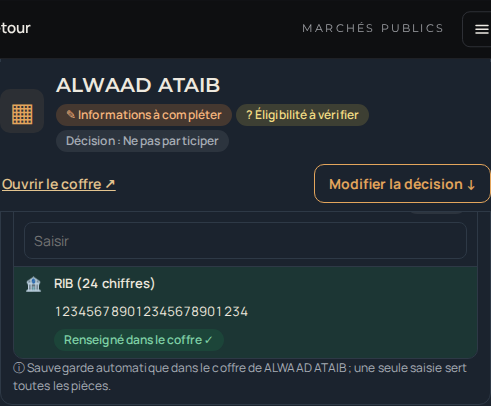
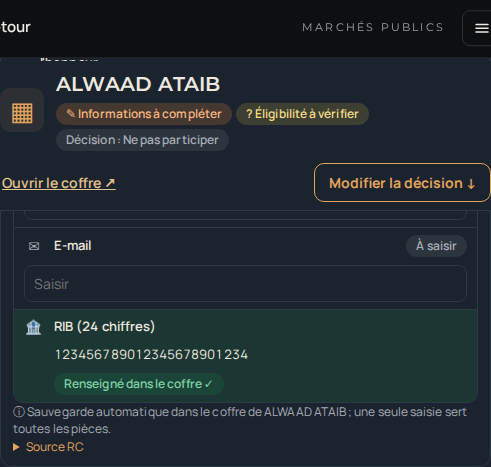
B2.1 b21d-11 : « À compléter / vérifier » par enveloppe RC réelle, seulement les manques
Claude-Session: https://claude.ai/code/session_01Fz3SDj4h719T8LXxdPwfkD

diff --git a/preuves_b31/part_b21dec.js b/preuves_b31/part_b21dec.js
@@ -5,7 +5,7 @@
    a.decision {verdict, le, qui, motif} ; jamais de Go automatique ni de présélection ; une décision remplacée est conservée
    (a.decisionHist) et tracée au journal ; la société d'un dossier n'est jamais changée ici. L'avis et la recommandation de
    l'Analyste restent dans la note d'analyse. Consultation clôturée : décision affichée en lecture, aucune nouvelle soumission. */
-const B21D={v:"b21d-10",motif:{},conf:null,ajout:null,ui:{id:null,open:null,f:"tout"},cat:{}};
+const B21D={v:"b21d-11",motif:{},conf:null,ajout:null,ui:{id:null,open:null,f:"tout"},cat:{}};
 const B21D_ST={prep:["b21d-neu","À préparer"],prep2:["b21d-neu","À préparer après Go · requis avant dépôt"],aprod:["b21d-amb","À produire si attribué"],pret:["b21d-ok","Prêt"],verif:["b21d-amb","À vérifier"],joindre:["b21d-ko","À joindre"],compl:["b21d-amb","À compléter"],nonexige:["b21d-neu","Non exigé"],attrib:["b21d-neu","Si attribué"]};
 const B21D_COFFRE=["qc","refs","fis","cnss","rc","pouvoirs"],B21D_FIN=["bpu","sdp"];   /* l'acte d'engagement se prépare dans les pièces (B3.2) */
 function b21dSibs(id,a){let L=[];try{L=b31Sibs(id,a);}catch(e){L=[{id,soc:a.soc,statut:a.statut}];}return L.map(s=>({oid:s.id,sid:s.soc,a:S.ao[s.id]})).filter(x=>x.a&&x.sid);}
@@ -101,7 +101,9 @@ function b21dPfSave(sid,k,force){const key=sid+"|"+k,F=B21D.pf[key];if(!F)return
       const maj=new Date().toISOString(),patch={profil:{[k]:val,maj}};if(g&&g.exists)await ref.update(patch);else await ref.set(patch);
       const d=D0(sid);d.profil={...(d.profil||{}),[k]:val,maj};try{socApply(sid);}catch(e){}
       if(k!=="gerants"){F.base=val;F.saved=val;}F.dirty=false;F.st="ok";F.cur=null;logJ((socCourt(sid)||sid)+" : profil mis à jour depuis la décision B2.1 ("+(k==="gerants"?"signataire":(B21D_PF.F[k]||{}).lab||k)+")");})
-    .catch(e=>{F.st="err";F.msg=(e&&e.code)||"erreur";}).finally(()=>b21dRenderSafe());}
+    .catch(e=>{F.st="err";F.msg=(e&&e.code)||"erreur";}).finally(()=>{const ae0=document.activeElement;b21dRenderSafe();
+      /* b21d-11 : si le rendu a retiré l'élément qui avait le focus (carte résolue), le focus revient au titre « À compléter / vérifier » */
+      if(ae0&&ae0!==document.body&&!document.contains(ae0)&&(!document.activeElement||document.activeElement===document.body)){const hh=document.getElementById("b21d-ah");if(hh)hh.focus({preventScroll:true});}});}
 /* aller à la pièce précise du coffre de la société (rubrique dépliée, pièce mise en vue) */
 function b21dCoffrePiece(sid,k){const i=SOC.findIndex(z=>z.sid===sid);let ci=-1;try{ci=VAULT.findIndex(([c,ps])=>ps.some(p=>p.k===k));}catch(e){}
   go(()=>{S.cur=i<0?0:i;S.soc=null;S.dept="coffre";S.cview="soc";S.filter="all";S.aoId=null;if(ci>=0)S.open["c"+ci]=true;});
@@ -147,9 +149,16 @@ function b21dElig(id,a,sid,X){const oid=X?X.oid:id,ac=X?X.a:a,non=[],ver=[],ok=[
   try{if(X){b21dGoBloc(X.oid).bloc.filter(z=>/décret|article/i.test(z.src||"")).forEach(z=>non.push({t:z.t,src:z.src}));}
     else{const pc=parCompat(id,a,sid);if((pc.st==="non"||pc.st==="deja")&&/article|décret/i.test(pc.why||""))non.push({t:pc.why,src:"décret 2-22-431"});}}catch(e){}
   return{k:non.length?"non":ver.length?"averif":"ok",non,ver,ok,E};}
+/* b21d-11 : emplacement réel d'une pièce dans le pli, uniquement d'après le RC lu (S.rc[..].plis et env de la pièce) ; sans plis lus
+   ou pièce non classée : « Emplacement dans le pli à confirmer » (le repli générique plisOf n'est pas utilisé ici) */
+const B21D_DOS={adm:"Dossier administratif",tec:"Dossier technique",fin:"Offre financière",ot:"Offre technique"};
+function b21dLoc(rcId,std,piece){const r=S.rc[rcId]||{},P=Array.isArray(r.pieces)?r.pieces:[],pl=Array.isArray(r.plis)&&r.plis.length?r.plis:null,inc={k:"?",lab:"Emplacement dans le pli à confirmer",ord:9999};
+  const p=P.find(x=>std&&x.std===std)||P.find(x=>x.t===piece);if(!p||!pl||!B21D_DOS[p.env])return inc;
+  const i=pl.findIndex(x=>Array.isArray(x.env)&&x.env.includes(p.env));if(i<0)return inc;const n=pl[i].n||i+1;
+  return{k:n+"|"+p.env,env:"Enveloppe "+n,dos:B21D_DOS[p.env],lab:"Enveloppe "+n+" · "+B21D_DOS[p.env],ord:i*10+pl[i].env.indexOf(p.env),d:p.d||""};}
 /* documents à produire (RC) et informations nécessaires, par document ; proofs = preuves du coffre exigées par le RC */
 function b21dDocs(id,a,sid,X){const oid=X?X.oid:id,ac=X?X.a:a,D=b21dCarteData(oid,ac,sid);let f0={};try{f0={...pfDefaults(ac,sid),...((ac.pieces||{})[sid]||{})};}catch(e){}
-  const docs=(D.prep||[]).map((z,i)=>{const gen=B21D_GEN[z.std],o={i,piece:z.piece,std:z.std,src:z.src,fields:[],autres:[],infos:[],fin:false,kind:"ready",note:"",etat:""};
+  const docs=(D.prep||[]).map((z,i)=>{const gen=B21D_GEN[z.std],o={i,piece:z.piece,std:z.std,src:z.src,fields:[],autres:[],infos:[],fin:false,kind:"ready",note:"",etat:"",loc:b21dLoc(D.rcId,z.std,z.piece)};
     if(z.k==="nonexige"){o.kind="nonexige";return o;}
     if(gen){let m=[];try{m=pfMissing(gen,ac,sid,f0).filter(x=>x!=="date");}catch(e){o.kind="verif";o.note="Contrôle des informations indisponible : vérification requise";return o;}
       m.forEach(l=>{if(b21dFin(l)){o.fin=true;return;}const k=B21D_FLD[l];if(k){if(!o.fields.some(f=>f.k===k))o.fields.push({k,lab:B21D_FLAB[k]||l,inv:/24 chiffres/.test(l)});}else o.autres.push({t:l,txt:"À compléter dans les chantiers de la société (pas de saisie ici)"});});
@@ -164,14 +173,14 @@ function b21dDocs(id,a,sid,X){const oid=X?X.oid:id,ac=X?X.a:a,D=b21dCarteData(oi
       if(!f0.sig)o.fields.push({k:"gerants",lab:B21D_FLAB.gerants});
       const RF=(D0(sid).references||[]);if(!RF.length)o.autres.push({t:"Références de la société (prestations déjà exécutées)",txt:"Aucune référence saisie au coffre",lab:"Renseigner dans le coffre",vk:"Attestations de bonne exécution"});
       else o.infos.push(RF.length+" référence"+(RF.length>1?"s":"")+" saisie"+(RF.length>1?"s":"")+" au coffre ✓");
-      o.infos.push("Équipe et moyens matériels : besoins à préciser par l'employé Préparation après lecture du CPS");o.prep=!!X;}
-    else if(z.std==="memoire"||z.std==="planning"){o.kind="redac";o.etat="Rédaction en préparation";o.infos.push("Rédigé par l'employé Préparation à partir du DCE ; besoins de la société à préciser après lecture du CPS");o.prep=!!X;}
+      o.infos.push("Équipe et moyens matériels : besoins à préciser par l'employé Préparation après lecture du CPS");o.prep=!!X;if(!NM)o.cps=true;}
+    else if(z.std==="memoire"||z.std==="planning"){o.kind="redac";o.etat="Rédaction en préparation";o.infos.push("Rédigé par l'employé Préparation à partir du DCE ; besoins de la société à préciser après lecture du CPS");o.prep=!!X;o.cps=true;}
     else{o.kind="verif";o.note="Informations nécessaires non déterminées automatiquement pour cette pièce : vérification requise";}
     const kd=sid+"|"+z.std;B21D.docF[kd]=Array.from(new Set([...(B21D.docF[kd]||[]),...o.fields.map(f=>f.k)]));
     (B21D.docF[kd]||[]).forEach(k=>{if(!o.fields.some(f=>f.k===k)&&B21D.pf[sid+"|"+k])o.fields.push({k,lab:B21D_FLAB[k]||k,fait:true});});
     if(o.kind==="redac"&&(o.fields.some(f=>!f.fait)||o.autres.length))o.todo=true;
     return o;});
-  const proofs=(D.pre||[]);return{D,docs,proofs,rcOk:D.rcOk,rcId:D.rcId};}
+  const proofs=(D.pre||[]).map(z=>Object.assign({},z,{loc:b21dLoc(D.rcId,z.std,z.piece)}));return{D,docs,proofs,rcOk:D.rcOk,rcId:D.rcId};}
 function b21dEval(id,a,sid,X){const el=b21dElig(id,a,sid,X),dc=b21dDocs(id,a,sid,X),miss=new Set();dc.docs.forEach(d=>d.fields.filter(f=>!f.fait).forEach(f=>miss.add(f.k)));
   const nAutres=dc.docs.reduce((n,d)=>n+d.autres.length,0),nVer=dc.docs.filter(d=>d.kind==="verif").length,info=miss.size+nAutres;
   const B=[];if(el.k==="non")B.push(["non","Non éligible","b21d-ko","✕"]);if(info)B.push(["comp","Informations à compléter","b21d-or","✎"]);if(el.k==="averif")B.push(["verif","Éligibilité à vérifier","b21d-ye","?"]);if(nVer)B.push(["verif","Documents à vérifier","b21d-ye","?"]);
@@ -254,7 +263,7 @@ function b21dDecSec(id,a,e){const sid=e.sid,X=e.X,d=X&&X.a.decision,ed=editable(
   if(H.length)h+=`<details class="b21d-hist"><summary>Historique des décisions (${H.length})</summary><ul>${H.map(z=>`<li>${esc(B21D_DV[z.verdict]||z.verdict||"?")} · ${esc(z.le?fmtIso(z.le):"?")} · ${esc(b21dQui(z.qui))}${z.motif?" · "+esc(z.motif):""}<small>remplacée le ${esc(fmtDT(z.remplaceLe))} par ${esc(b21dQui(z.remplacePar))}</small></li>`).join("")}</ul></details>`;
   return h+`</section>`;}
 /* ---- panneau d'une société ---- */
-function b21dPanel(id,a,e){const sid=e.sid,X=e.X,nm=socCourt(sid),el=e.el,ELP={ok:["b21d-ok","✓ Prouvée"],averif:["b21d-ye","? À vérifier"],non:["b21d-ko","✕ Non éligible"]}[el.k],OCC={premier:b21dOccPremier(e.sid,e.dc.docs)};
+function b21dPanel(id,a,e){const sid=e.sid,X=e.X,nm=socCourt(sid),el=e.el,ELP={ok:["b21d-ok","✓ Prouvée"],averif:["b21d-ye","? À vérifier"],non:["b21d-ko","✕ Non éligible"]}[el.k];
   const passe=b21dPasse(a),fig=X&&["Déposé","Attribué","Non retenu"].includes(X.a.statut),peut=editable()&&!passe&&!fig,dx=X&&X.a.decision;
   let h=`<section class="b21d-p" aria-labelledby="b21d-ph" data-b21d-panel="${esc(sid)}"><button type="button" class="b21d-back" data-b21d-back="1" data-act="${act(()=>{B21D.ui.mob="list";render();b21dFocus('[data-b21d-item="'+sid+'"]');})}">← Sociétés</button>
     <header class="b21d-pt" data-b21d-sticky="1"><span class="b21d-pic" aria-hidden="true">▦</span><div><h3 id="b21d-ph" tabindex="-1">${esc(nm)}</h3><p class="b21d-psb" data-b21d-psub="1">${e.B.length?e.B.map(b=>`<span class="b21d-pill ${b[2]}">${b[3]} ${esc(b[1])}</span>`).join(""):`<span class="b21d-pill b21d-neu">Aucun point relevé</span>`}${dx?`<span class="b21d-pill b21d-neu">Décision : ${esc(B21D_DV[dx.verdict]||dx.verdict)}</span>`:""}</p></div>
@@ -263,23 +272,37 @@ function b21dPanel(id,a,e){const sid=e.sid,X=e.X,nm=socCourt(sid),el=e.el,ELP={o
   h+=`<div class="b21d-eb b21d-eb-${el.k}" data-b21d-elig="${el.k}"><span class="b21d-ei" aria-hidden="true">⛨</span><div><p class="b21d-et"><b>Éligibilité pour cet AO</b> · <span class="b21d-pill ${ELP[0]}">${ELP[1]}</span></p><p class="b21d-src">${el.k==="ok"?"Preuves d'éligibilité exigées présentes et en validité (contenu non vérifié automatiquement).":esc(R[0]?R[0].t:"")+(R.length>1?" · + "+(R.length-1)+" autre"+(R.length>2?"s":"")+" point"+(R.length>2?"s":""):"")}${r0&&r0.src?" · Source : "+esc(r0.src):""}</p></div>`;
   if(r0)h+=`<button type="button" class="b21d-lnk" data-b21d-everif="1" data-act="${act(()=>vk&&VAULT.some(([c,ps])=>ps.some(p=>p.k===vk))?b21dCoffrePiece(sid,vk):b21dAller(X?X.oid:id,"MP-B2.3","note"))}">${vk?"Vérifier : "+esc(r0.lab||vk):"Voir les exigences (B2.3)"} →</button>`;
   h+=`</div>`;
-  const P=e.dc.proofs;if(P.length||R.length>1)h+=`<details class="b21d-pv" data-b21d-proofs="${P.length}"><summary>Preuves d'éligibilité du coffre (${P.length}) et raisons détaillées</summary><ul>${R.map(z=>`<li>${esc(z.t)}${z.src?`<small>Source : ${esc(z.src)}</small>`:""}</li>`).join("")}${P.map(z=>{const S2=B21D_PST[z.k]||B21D_PST.averif;return`<li data-b21d-pk="${z.k}" data-b21d-std="${esc(z.std)}"><b>${esc(z.piece)}</b> <span class="b21d-pill ${S2[0]}">${S2[1]}</span> <button type="button" class="b21d-lnk" data-b21d-go="coffre" data-act="${act(()=>b21dCoffrePiece(sid,z.vk))}">${z.k==="nonrens"?"Joindre au coffre":z.k==="invalide"?"Mettre à jour":z.k==="joint"?"Ouvrir":"Vérifier"}</button>${z.src?`<small>Source : ${esc(z.src)}</small>`:""}</li>`;}).join("")}</ul></details>`;
-  h+=`<div class="b21d-dd"><h4>Documents et informations nécessaires</h4><p class="b21d-src">Compléter les informations demandées pour préparer l'offre de ${esc(nm)}.</p>`;
-  if(!e.dc.rcOk)h+=`<p class="b21d-warn">Pièces du RC non relevées pour ce dossier : liste indisponible (aucune pièce supposée).</p>`;
-  e.dc.docs.forEach(d=>{const todo=d.fields.filter(f=>!f.fait).length+d.autres.length,fait=d.fields.filter(f=>f.fait).length;
-    if(d.kind==="nonexige")return;
-    const ligne=(dk,pill,cls,note,extra)=>`<div class="b21d-dl" data-b21d-doc="${esc(d.std||"")}" data-b21d-dk="${dk}"><span class="b21d-dic" aria-hidden="true">▤</span><b>${esc(d.piece)}</b><span class="b21d-pill ${cls}">${pill}</span>${note?`<small>${esc(note)}</small>`:""}${extra||""}</div>`;
-    const prepBtn=d.prep?`<button type="button" class="b21d-lnk" data-b21d-prepgo="1" data-act="${act(()=>b21dAller(X.oid,"MP-B3.2","pieces"))}">Ouvrir la préparation</button>`:"";
-    if(d.kind==="b3"){h+=ligne("b3","Préparation (B3)","b21d-neu",d.note);return;}
-    if(d.kind==="ext"){h+=ligne("ext",esc(d.etat),"b21d-neu",d.note);return;}
-    if(d.kind==="verif"){h+=ligne("verif","? Vérification requise","b21d-ye",d.note,d.vk?`<button type="button" class="b21d-lnk" data-act="${act(()=>b21dCoffrePiece(sid,d.vk))}">Voir le coffre</button>`:"");return;}
-    if(!todo&&(d.kind==="ready"||d.kind==="miss"||d.kind==="redac")){const pill=d.kind==="redac"?esc(d.etat):"✓ Prête à préparer",cls=d.kind==="redac"?"b21d-neu":"b21d-ok";
-      h+=ligne(d.kind==="redac"?"redac":"ready",pill,cls,[d.note,...(d.infos||[]),fait?fait+" information"+(fait>1?"s":"")+" renseignée"+(fait>1?"s":"")+" dans le coffre ✓":""].filter(Boolean).join(" · "),d.kind==="redac"?prepBtn:"");return;}
-    const o=b21dDocOpen(sid,d),cid="b21d-dc-"+sid+"-"+d.std;
-    h+=`<article class="b21d-dcard" data-b21d-doc="${esc(d.std||"")}" data-b21d-dk="miss" data-b21d-dopen="${o?1:0}"><div class="b21d-dch"><span class="b21d-dic" aria-hidden="true">▤</span><div><p><b>${esc(d.piece)}</b> <span class="b21d-pill b21d-or">✎ ${todo} information${todo>1?"s":""} société à compléter</span>${d.kind==="redac"?` <span class="b21d-pill b21d-neu">${esc(d.etat)}</span>`:""}</p><p class="b21d-src">${d.kind==="redac"?"Données de la société utilisées par l'employé Préparation pour rédiger cette pièce":"Informations manquantes pour la génération"}${d.src?" · Source : "+esc(d.src):""}</p></div>
+  /* b21d-11 : « À compléter / vérifier » : seules les pièces avec une donnée société manquante ou une preuve à vérifier, rangées
+     selon l'emplacement réel lu dans le RC (enveloppe · dossier) ; destination (pli) distincte du lieu de correction (coffre). Les pièces
+     sans donnée société à fournir ici (prêtes, CPS/RC, BPU, récépissé de caution, rédaction/signature) restent en Préparation. */
+  const P=e.dc.proofs,PJ=P.filter(z=>z.k==="joint"),PC=P.filter(z=>z.k!=="joint");
+  if(PJ.length||R.length>1)h+=`<details class="b21d-pv" data-b21d-proofs="${PJ.length}"><summary>Éligibilité : raisons détaillées${PJ.length?" et preuves jointes au coffre ("+PJ.length+")":""}</summary><ul>${R.map(z=>`<li>${esc(z.t)}${z.src?`<small>Source : ${esc(z.src)}</small>`:""}</li>`).join("")}${PJ.map(z=>{const S2=B21D_PST[z.k];return`<li data-b21d-pk="${z.k}" data-b21d-std="${esc(z.std)}"><b>${esc(z.piece)}</b> <span class="b21d-pill ${S2[0]}">${S2[1]}</span> <button type="button" class="b21d-lnk" data-b21d-go="coffre" data-act="${act(()=>b21dCoffrePiece(sid,z.vk))}">Ouvrir</button>${z.src?`<small>Source : ${esc(z.src)}</small>`:""}</li>`;}).join("")}</ul></details>`;
+  const nres=d=>d.fields.filter(f=>!b21dFRes(sid,f)).length+d.autres.length;
+  const DV=e.dc.docs.filter(d=>(d.kind==="miss"||d.kind==="redac"||d.kind==="ready")&&(nres(d)>0||b21dDocNonEnr(sid,d)));
+  const ALR=e.dc.docs.filter(d=>d.kind!=="nonexige"&&(d.cps||d.kind==="verif"));
+  const IT=[...DV.map(d=>({t:"doc",d,loc:d.loc})),...PC.map(z=>({t:"proof",z,loc:z.loc}))].sort((x,y)=>(x.loc.ord-y.loc.ord)||((x.d||x.z).i||0)-((y.d||y.z).i||0));
+  const OCC={premier:b21dOccPremier(sid,IT.filter(x=>x.t==="doc").map(x=>x.d))},PVK={};PC.forEach(z=>{if(z.vk&&!PVK[z.vk])PVK[z.vk]=z;});
+  const UQ=new Set();DV.forEach(d=>{d.fields.filter(f=>!b21dFRes(sid,f)).forEach(f=>UQ.add("f:"+f.k));d.autres.forEach(x=>UQ.add(x.vk?"v:"+x.vk:"t:"+x.t));});PC.forEach(z=>UQ.add(z.vk?"v:"+z.vk:"p:"+z.std));
+  const prepBtn=X?`<button type="button" class="b21d-sb" data-b21d-prepgo="1" data-act="${act(()=>b21dAller(X.oid,"MP-B3.2","pieces"))}">Ouvrir Préparation</button>`:`<span class="b21d-src" data-b21d-prepnone="1">Préparation disponible après « Participer » (dossier créé à la confirmation).</span>`;
+  h+=`<div class="b21d-dd" data-b21d-acv="1"><h4 id="b21d-ah" tabindex="-1">À compléter / vérifier</h4><p class="b21d-src">${esc(nm)} · AO ${esc(a.ref||"")}${X?"":" · aucun dossier pour cette société (rien n'est créé en consultant)"}</p>`;
+  if(!e.dc.rcOk)h+=`<p class="b21d-warn" data-b21d-rcinc="1">Exigences du RC non relevées pour ce dossier : impossible d'établir ce qui manque ; rien n'est supposé complet.</p>`;
+  else if(IT.length)h+=`<p class="b21d-sum" data-b21d-sum="${IT.length}|${UQ.size}" role="status"><b>${IT.length} pièce${IT.length>1?"s":""} concernée${IT.length>1?"s":""}</b> · ${UQ.size} donnée${UQ.size>1?"s":""} société à compléter ou vérifier <small>(une donnée commune à plusieurs pièces compte une fois)</small></p>`;
+  else h+=`<div class="b21d-rien" data-b21d-rien="${ALR.length?"partiel":"1"}"><p><b>${ALR.length?"Aucune donnée société manquante identifiée":"Rien à compléter ici"}</b>${ALR.length?" ; exigences encore à préciser ci-dessous.":"."} <small>Cela ne signifie ni offre prête au dépôt ni éligibilité vérifiée (voir le badge).</small></p>${prepBtn}</div>`;
+  let gk=null;IT.forEach(x=>{if(x.loc.k!==gk){if(gk!==null)h+=`</div>`;gk=x.loc.k;h+=`<div class="b21d-grp" data-b21d-loc="${esc(x.loc.k)}"><h5 class="b21d-gh">${x.loc.k==="?"?`<span class="b21d-pill b21d-ye">? ${esc(x.loc.lab)}</span>`:esc(x.loc.lab)}</h5>`;}
+    const chemin=(piece)=>`<p class="b21d-path" data-b21d-path="1">Destination : ${x.loc.k==="?"?"emplacement dans le pli à confirmer":esc(x.loc.env)+" › "+esc(x.loc.dos)} › <b>${esc(piece)}</b></p>`;
+    const rcs=(src,dd)=>src||dd?`<details class="b21d-rcs"><summary>Source RC</summary><p class="b21d-src">${esc(src||"")}${dd?" · "+esc(dd):""}</p></details>`:"";
+    if(x.t==="proof"){const z=x.z,S2=z.k==="invalide"?["b21d-ko","✕ Échu ou invalide"]:z.k==="nonrens"?["b21d-ye","? Non renseigné au coffre · à vérifier"]:["b21d-ye","? À vérifier"];
+      h+=`<article class="b21d-dcard b21d-pc" data-b21d-doc="${esc(z.std||"")}" data-b21d-dk="proof" data-b21d-pk="${esc(z.k)}"><div class="b21d-dch"><span class="b21d-dic" aria-hidden="true">⛨</span><div><p><b>${esc(z.piece)}</b> <span class="b21d-pill ${S2[0]}">${S2[1]}</span></p>${chemin(z.piece)}<p class="b21d-src">À corriger dans : coffre de ${esc(nm)}${z.vk?" › "+esc(z.vk):""} (preuve exigée par le RC)</p>${rcs(z.src,x.loc.d)}</div>
+        <button type="button" class="b21d-sb" data-b21d-renseigner="${esc(z.vk||"")}" data-act="${act(()=>b21dCoffrePiece(sid,z.vk))}">${z.k==="nonrens"?"Renseigner au coffre":z.k==="invalide"?"Mettre à jour au coffre":"Vérifier au coffre"}<span class="b21d-sr"> de ${esc(nm)}</span></button></div></article>`;return;}
+    const d=x.d,todo=nres(d),o=b21dDocOpen(sid,d),cid="b21d-dc-"+sid+"-"+d.std;
+    h+=`<article class="b21d-dcard" data-b21d-doc="${esc(d.std||"")}" data-b21d-dk="miss" data-b21d-dopen="${o?1:0}"><div class="b21d-dch"><span class="b21d-dic" aria-hidden="true">▤</span><div><p><b>${esc(d.piece)}</b> <span class="b21d-pill b21d-or">✎ ${todo} information${todo>1?"s":""} société à compléter</span></p>${chemin(d.piece)}</div>
       <button type="button" class="b21d-sb" aria-expanded="${o}" aria-controls="${esc(cid)}" data-b21d-dtog="${esc(d.std||"")}" data-act="${act(()=>b21dDocToggle(sid,d))}">${o?"Masquer":"Afficher"}<span class="b21d-sr"> les informations de ${esc(d.piece)}</span></button></div>
-      <div id="${esc(cid)}" ${o?"":"hidden"}>${o?`<div class="b21d-frs">${d.fields.map(f=>b21dFieldOcc(sid,f,d,OCC)).join("")}${d.autres.map(x=>`<div class="b21d-fr" data-b21d-autre="1"><span class="b21d-fi" aria-hidden="true">•</span><span class="b21d-fl">${esc(x.t)}</span><span class="b21d-src">${esc(x.txt||"")}</span><span class="b21d-fs">${x.vk?`<button type="button" class="b21d-sb" data-b21d-renseigner="${esc(x.vk)}" data-act="${act(()=>b21dCoffrePiece(sid,x.vk))}">${esc(x.lab||"Renseigner")}</button>`:""}</span></div>`).join("")}</div>
-        ${(d.infos||[]).length?`<p class="b21d-src b21d-sv">${(d.infos||[]).map(esc).join(" · ")} ${prepBtn}</p>`:""}${d.fields.length?`<p class="b21d-src b21d-sv">ⓘ Sauvegarde automatique dans le coffre de ${esc(nm)} ; une seule saisie sert toutes les pièces.${d.note?" "+esc(d.note):""}</p>`:""}`:""}</div></article>`;});
+      <div id="${esc(cid)}" ${o?"":"hidden"}>${o?`<p class="b21d-src b21d-cor">À corriger dans : coffre de ${esc(nm)} (profil de la société)${d.kind==="redac"?" ; la pièce est rédigée par l'employé Préparation":""}</p><div class="b21d-frs">${d.fields.map(f=>b21dFieldOcc(sid,f,d,OCC)).join("")}${d.autres.map(y=>{const pz=y.vk&&PVK[y.vk];
+          if(pz)return`<div class="b21d-fr" data-b21d-autre="1" data-b21d-aref="${esc(pz.std)}"><span class="b21d-fi" aria-hidden="true">•</span><span class="b21d-fl">${esc(y.t)}</span><span class="b21d-src">Même pièce du coffre que « ${esc(pz.piece)} » : une seule mise à jour</span><span class="b21d-fs"><button type="button" class="b21d-sb" data-act="${act(()=>b21dFocus('[data-b21d-dk="proof"][data-b21d-doc="'+pz.std+'"] [data-b21d-renseigner]'))}">Aller à la pièce</button></span></div>`;
+          return`<div class="b21d-fr" data-b21d-autre="1"><span class="b21d-fi" aria-hidden="true">•</span><span class="b21d-fl">${esc(y.t)}</span><span class="b21d-src">${esc(y.txt||"")}</span><span class="b21d-fs">${y.vk?`<button type="button" class="b21d-sb" data-b21d-renseigner="${esc(y.vk)}" data-act="${act(()=>b21dCoffrePiece(sid,y.vk))}">${esc(y.lab||"Renseigner")}</button>`:""}</span></div>`;}).join("")}</div>
+        ${d.fields.length?`<p class="b21d-src b21d-sv">ⓘ Sauvegarde automatique dans le coffre de ${esc(nm)} ; une seule saisie sert toutes les pièces.${d.note?" "+esc(d.note):""}</p>`:""}${rcs(d.src,d.loc.d)}`:""}</div></article>`;});
+  if(gk!==null)h+=`</div>`;
+  if(e.dc.rcOk&&ALR.length)h+=`<div class="b21d-alr" data-b21d-alr="${ALR.length}"><p><b>? Exigences à préciser</b></p><ul>${ALR.map(d=>`<li data-b21d-alrdoc="${esc(d.std||"")}"><b>${esc(d.piece)}</b> <small>(${d.loc.k==="?"?"emplacement dans le pli à confirmer":esc(d.loc.lab)})</small> : ${d.cps?"Exigences à préciser après lecture du CPS (par l'employé Préparation)":"données nécessaires non déterminées automatiquement, à vérifier en Préparation"}</li>`).join("")}</ul>${IT.length?prepBtn:""}</div>`;
   h+=`<p class="b21d-fn8">ⓘ Informations complètes ne signifie pas offre prête au dépôt : signatures, cachets et contrôles avant dépôt restent à faire.</p></div>`;
   h+=b21dDecSec(id,a,e);
   return h+`</section>`;}
@@ -315,8 +338,11 @@ document.getElementById("view").addEventListener("change",e=>{const t=e.target;i
 /* sortie de champ : traitée après la tâche en cours (jamais pendant un rendu qui remplace le champ) ; si le même champ a repris le focus
    (rendu qui le recrée), rien n'est enregistré ; l'affichage « Renseigné » attend que la saisie ne soit plus dans un autre champ */
 document.getElementById("view").addEventListener("focusout",e=>{const t=e.target;if(t&&t.dataset&&t.dataset.b21dPf){const key=t.dataset.b21dPf,[sid,k]=key.split("|");
+  const card=t.closest("[data-b21d-doc]"),std=card&&card.dataset.b21dDoc;
   setTimeout(()=>{const F=B21D.pf[key],ae=document.activeElement;if(!F||(ae&&ae.dataset&&ae.dataset.b21dPf===key))return;
-    if(F.dirty&&F.st!=="saving"&&F.st!=="ok"&&F.st!=="conflit")b21dPfSave(sid,k);else if(F.st==="ok"&&!(ae&&ae.dataset&&(ae.dataset.b21dPf||ae.dataset.b21dPfg)))b21dRenderSafe();},0);}});
+    if(F.dirty&&F.st!=="saving"&&F.st!=="ok"&&F.st!=="conflit")b21dPfSave(sid,k);else if(F.st==="ok"&&!(ae&&ae.dataset&&(ae.dataset.b21dPf||ae.dataset.b21dPfg))){b21dRenderSafe();
+      /* b21d-11 : la carte du dernier manque résolu disparaît ; si le focus était dedans, il revient au titre « À compléter / vérifier » */
+      if(std&&!document.querySelector('[data-b21d-panel] [data-b21d-doc="'+std+'"]')&&(!document.activeElement||document.activeElement===document.body)){const hh=document.getElementById("b21d-ah");if(hh)hh.focus({preventScroll:true});}}},0);}});
 const B21D_TOK=`--d-bg:#151B23;--d-card:#1B232E;--d-line:#2E3946;--d-ink:#EEE9DF;--d-mut:#A7ADB6;--d-okb:rgba(31,122,77,.22);--d-ok:#7FD1A6;--d-ambb:rgba(195,160,106,.2);--d-amb:#E3C48F;--d-kob:rgba(166,61,50,.25);--d-ko:#F0A49A;--d-neub:rgba(255,255,255,.08);--d-sec:rgba(195,160,106,.1)`;
 const B21D_CSS=`.b21d{--d-bg:#FBF8F2;--d-card:#FFFFFF;--d-line:#E6DFD2;--d-ink:#16171A;--d-mut:#6B6E75;--d-okb:#E9F4EE;--d-ok:#1F7A4D;--d-ambb:#FBF1DE;--d-amb:#8A551C;--d-kob:#FBEAE7;--d-ko:#A63D32;--d-neub:#F1F0EC;--d-sec:#F6EFE2;
   background:var(--d-bg);color:var(--d-ink);border-radius:14px;padding:14px;display:flex;flex-direction:column;gap:12px;font-size:13.5px;container:b21d/inline-size}
@@ -395,6 +421,14 @@ const B21D_CSS=`.b21d{--d-bg:#FBF8F2;--d-card:#FFFFFF;--d-line:#E6DFD2;--d-ink:#
 .b21d-fs .b21d-sb{white-space:normal;text-align:center;max-width:100%}
 @container b21dc (max-width:520px){.b21d-fr[data-b21d-autre],.b21d-fr[data-b21d-fref],.b21d-fr[data-b21d-fres]{grid-template-columns:20px minmax(0,1fr)}
   .b21d-fr[data-b21d-autre]>.b21d-fs,.b21d-fr[data-b21d-fref]>.b21d-fs,.b21d-fr[data-b21d-fres]>.b21d-fs{grid-column:2;grid-row:3;justify-content:flex-start}}
+.b21d-sum{margin:0;font-size:13.5px}.b21d-sum small{color:var(--d-mut);font-size:12px}
+.b21d-grp{display:flex;flex-direction:column;gap:8px}.b21d-gh{margin:6px 0 0;font-size:13px;font-weight:700;letter-spacing:.02em;color:var(--d-mut);text-transform:uppercase}
+.b21d-path{margin:2px 0 0;font-size:12.5px;color:var(--d-mut);overflow-wrap:anywhere}.b21d-path b{color:var(--d-ink);font-weight:600}.b21d-cor{margin:0 0 6px}
+.b21d-rcs summary{cursor:pointer;font-size:12px;color:var(--d-acc)}.b21d-rcs p{margin:2px 0 0;font-size:12px}
+.b21d-rien{display:flex;flex-wrap:wrap;gap:8px 12px;align-items:center;border:1px solid var(--d-line);border-radius:10px;padding:10px 12px;background:var(--d-sec)}.b21d-rien p{margin:0;flex:1 1 240px}.b21d-rien small{display:block;color:var(--d-mut)}
+.b21d-alr{border:1px solid var(--d-line);border-left:4px solid var(--d-ye);background:var(--d-yeb);color:var(--d-ink);border-radius:10px;padding:10px 12px;font-size:13px}.b21d-alr p{margin:0;color:var(--d-ye)}.b21d-alr ul{margin:6px 0 8px;padding-left:18px;display:flex;flex-direction:column;gap:4px}.b21d-alr small{color:var(--d-mut)}
+.b21d-pc .b21d-dch>.b21d-sb{white-space:normal;max-width:220px;text-align:center}
+@container b21dc (max-width:520px){.b21d-pc .b21d-dch>.b21d-sb{grid-column:1 / -1;justify-self:start;max-width:100%}}
 .b21d-noteb{display:flex;flex-wrap:wrap;gap:8px;align-items:center}.b21d-noteb .b21d-src{margin:0;flex:1 1 260px}
 .b21d-sr{position:absolute;width:1px;height:1px;overflow:hidden;clip:rect(0 0 0 0);white-space:nowrap}
 @container b21d (max-width:560px){.b21d-tab th,.b21d-tab td{padding:6px 4px}.b21d-tab td:nth-child(2){width:84px}.b21d-tab td:nth-child(3){width:86px}.b21d-tab .b21d-pill{white-space:normal;font-size:11px;padding:2px 7px}.b21d-tab .b21d-act{padding:4px 6px;max-width:100%}.b21d-tab .b21d-act small{display:none}.b21d-tab{table-layout:fixed}.b21d-tab th:nth-child(2),.b21d-tab td:nth-child(2){width:84px}.b21d-tab th:nth-child(3),.b21d-tab td:nth-child(3){width:78px}.b21d-tab td{overflow-wrap:anywhere}.b21d-tab th:nth-child(3),.b21d-tab td:nth-child(3){width:96px}.b21d-tab td:nth-child(3) .b21d-act{overflow-wrap:normal;word-break:keep-all;font-size:11.5px;padding:4px 6px}}`;

diff --git a/preuves_b31/qa_b21dec.py b/preuves_b31/qa_b21dec.py
@@ -78,10 +78,16 @@ with sync_playwright() as p:
     edh=[mp[x] for x in PM["dh"] if x in mp];eae=[mp[x] for x in PM["ae"] if x in mp]
     chk(D1["dsh"]["f"]==edh and D1["ae"]["f"]==eae and D1["dsh"]["k"]=="miss" and D1["ae"]["k"]=="miss",f"champs sous la bonne pièce, d'après le générateur existant pfMissing : DH {edh}, AE {eae}")
     chk("montant" not in (D1["ae"]["t"].lower().split("montants :")[0]) and "Préparation (B3)" in D1["ae"]["t"],"AE : montant HT, lot, rabais exclus de la décision (préparés en B3)")
-    TM=D1["moyens"]["t"];chk(D1["moyens"]["k"] in ("miss","redac") and "Rédaction en préparation" in TM and "besoins à préciser par l'employé Préparation après lecture du CPS" in TM and not __import__("re").search(r"non structur|générateur|repères|\[à compléter",TM) and D1["bpu"]["k"]=="b3",f"note sur les moyens : « Rédaction en préparation », seules les données de la société ; besoins d'équipe à préciser par l'employé Préparation après lecture du CPS ; aucune mention technique")
-    chk(D1["caution"]["k"]=="ext" and "À obtenir en préparation" in D1["caution"]["t"] and "Prête" not in D1["caution"]["t"] and ev("()=>document.querySelector('[data-b21d-doc=\"caution\"] .b21d-pill').className").endswith("b21d-neu"),"récépissé de caution : statut neutre « À obtenir en préparation » (banque), plus de vert « Prête »")
+    VIS=ev("()=>({c:[...document.querySelectorAll('[data-b21d-panel] [data-b21d-doc]')].map(d=>[d.dataset.b21dDoc,d.dataset.b21dDk,d.closest('[data-b21d-loc]')?d.closest('[data-b21d-loc]').dataset.b21dLoc:'',(d.querySelector('[data-b21d-path]')||{}).innerText||'']),g:[...document.querySelectorAll('[data-b21d-panel] [data-b21d-loc]')].map(g=>[g.dataset.b21dLoc,g.querySelector('.b21d-gh').innerText]),sum:(document.querySelector('[data-b21d-sum]')||{dataset:{}}).dataset.b21dSum,h:(document.getElementById('b21d-ah')||{}).innerText,ctx:document.querySelector('[data-b21d-acv] > .b21d-src').innerText})")
+    UQx=len(set(edh)|set(eae))+1   # champs société uniques (RIB commun compté une fois) + la preuve « attestations de référence » (une seule donnée du coffre, aussi citée sous la note des moyens)
+    chk(VIS["h"]=="À compléter / vérifier" and "ALWAAD ATAIB" in VIS["ctx"] and "FX-DEC" in VIS["ctx"] and sorted(x[0] for x in VIS["c"])==["ae","dsh","moyens","refs"] and VIS["sum"]==f"4|{UQx}",f"« À compléter / vérifier » (ALWAAD · AO FX-DEC) : seules les pièces avec une donnée société manquante ou une preuve à vérifier ; résumé 4 pièces / {UQx} données uniques (RIB compté une fois) {VIS['c']} {VIS['sum']}")
+    LOC={x[0]:x[2] for x in VIS["c"]};PTH={x[0]:x[3] for x in VIS["c"]}
+    chk([g[0] for g in VIS["g"]]==["1|adm","1|tec","2|fin"] and LOC=={"dsh":"1|adm","refs":"1|tec","moyens":"1|tec","ae":"2|fin"} and PTH["dsh"].startswith("Destination : Enveloppe 1 › Dossier administratif › Déclaration") and PTH["moyens"].startswith("Destination : Enveloppe 1 › Dossier technique › Note sur les moyens") and PTH["ae"].startswith("Destination : Enveloppe 2 › Offre financière › Acte d'engagement"),f"chemin réel du RC (plis + enveloppe de chaque pièce) : DH → Env. 1 administratif, note des moyens → Env. 1 technique, AE → Env. 2 offre financière {VIS['g']}")
+    TM=D1["moyens"]["t"];chk(D1["moyens"]["k"]=="miss" and "À corriger dans : coffre de ALWAAD ATAIB" in TM and ev("()=>!!document.querySelector('[data-b21d-doc=\"moyens\"] [data-b21d-aref=\"refs\"]')") and not __import__("re").search(r"non structur|générateur|repères|\[à compléter|Rédaction en préparation|Rédigée",TM) and "Exigences à préciser après lecture du CPS" in pg.inner_text("[data-b21d-alr]"),"note des moyens : affichée seulement pour la donnée société manquante (références → renvoi vers la même pièce du coffre) ; lieu de correction = coffre ; besoins CPS : alerte « Exigences à préciser après lecture du CPS », aucune rédaction demandée")
+    chk(not set(D1)&{"caution","bpu","cpsrc","sdp"} and "Lignes de caution" not in " ".join(x[0] for x in VIS["c"]),f"plus rendus dans la Décision : récépissé de caution, BPU (B3), CPS/RC sans manque, pièces prêtes {sorted(D1)}")
     sel("sakdat");OUV();D2=DOC()
-    chk(D2["dsh"]["k"]=="ready" and D2["ae"]["k"]=="ready" and "Prête à préparer" in D2["dsh"]["t"] and not D2["dsh"]["f"],"document complet : une ligne compacte « nom + Prête à préparer », sans champs")
+    RI=ev("()=>({r:(document.querySelector('[data-b21d-rien]')||{dataset:{}}).dataset.b21dRien,p:!!document.querySelector('[data-b21d-acv] [data-b21d-prepgo]'),miss:document.querySelectorAll('[data-b21d-panel] [data-b21d-dk=\"miss\"],[data-b21d-panel] [data-b21d-dk=\"proof\"]').length,t:document.querySelector('[data-b21d-acv]').innerText})")
+    chk(not D2 and RI["miss"]==0 and RI["r"]=="partiel" and RI["p"] and "Aucune donnée société manquante identifiée" in RI["t"] and "Rien à compléter ici" not in RI["t"] and "Exigences à préciser après lecture du CPS" in RI["t"],"SAKDAT : aucune carte (rien de manquant) ; besoins CPS non établis → « Exigences à préciser », pas de « Rien à compléter » ; « Ouvrir Préparation »")
     T2=pg.inner_text("[data-b21d-panel]")
     chk("ne signifie pas offre prête au dépôt" in T2 and not pg.locator("[data-b21d] table").count() and not __import__("re").search(r"Chiffrage de|PU saisis|Après attribution|attributaire|TVA|TTC",T2),"panneau : mention « ne signifie pas offre prête au dépôt » ; aucun tableau, chiffrage ni après attribution")
     chk("Éligibilité pour cet AO" in T2 and "Source" in T2 and ev("()=>!!document.querySelector('[data-b21d-everif]')"),"bande « Éligibilité pour cet AO » : statut, raison, source, action « Vérifier »")
@@ -119,7 +125,7 @@ with sync_playwright() as p:
     chk(ev("()=>JSON.stringify(Object.keys(S.ao).filter(i=>i.startsWith('fx-dec')).map(i=>[i,S.ao[i].decision||null,S.ao[i].statut,S.ao[i].soc]))")==dec0 and not [w for w in W()[w1:] if w[1].startswith("ao/")],"saisies : aucune décision, aucun dossier créé ni modifié")
     ev("()=>window.__persist()");pg.reload();pg.wait_for_function("()=>typeof S!=='undefined'&&S.aoState==='ok'&&Object.keys(S.ao).length>50&&S.dbState==='ok'",timeout=20000);pg.wait_for_timeout(900);ev(TL)
     dec(pg,"fx-dec");sel(SID);OUV();D4=DOC()
-    chk(D4["dsh"]["k"]=="ready" and D4["ae"]["k"]=="ready" and ev("s=>profilOf(s).rib",SID)=="123456789012345678901234","après rechargement : informations relues de la base ; DH et AE d'ALWAAD « Prête à préparer »")
+    chk("dsh" not in D4 and "ae" not in D4 and ev("s=>profilOf(s).rib",SID)=="123456789012345678901234","après rechargement : informations relues de la base ; DH et AE d'ALWAAD complètes → retirées de « À compléter / vérifier »")
     W=lambda:ev("()=>window.__writes.slice()")
     # ===== D. décision : ouverture sans écriture, confirmation explicite =====
     sel("sakdat");w2=len(W())
@@ -187,14 +193,14 @@ with sync_playwright() as p:
     chk(len(W())==w10 and ev("()=>S.ao['fx-dec'].statut")==st0 and ev("()=>S.ao['fx-dec~siditrav'].decision.verdict")=="Go" and "Décision d'Ahmed" in last(),"ancien gestionnaire decide() : n'enregistre plus rien, ne change ni décision ni société (renvoi vers la décision B2.1)")
     # note des moyens : dépend des données de la société ; rédaction par la Préparation
     ev("()=>{window.__refs=JSON.stringify(D0('sakdat').references||null);D0('sakdat').references=[{mo:'MO FICTIF',objet:'Prestation fictive (test)'}];render();}")
-    M1=ev("()=>{const d=document.querySelector('[data-b21d-panel] [data-b21d-doc=\"moyens\"]');return{k:d.dataset.b21dDk,t:d.innerText,a:d.querySelectorAll('[data-b21d-autre]').length}}")
-    ev("()=>{S.ao['fx-dec'].noteMoyens={soc:'sakdat',html:'<p>texte fictif</p>'};render();}");M2=ev("()=>document.querySelector('[data-b21d-panel] [data-b21d-doc=\"moyens\"]').innerText")
+    A1=ev("()=>({m:!!document.querySelector('[data-b21d-panel] [data-b21d-doc=\"moyens\"]'),a:[...document.querySelectorAll('[data-b21d-alrdoc]')].map(x=>x.dataset.b21dAlrdoc)})")
+    ev("()=>{S.ao['fx-dec'].noteMoyens={soc:'sakdat',html:'<p>texte fictif</p>'};render();}");A2=ev("()=>({a:[...document.querySelectorAll('[data-b21d-alrdoc]')].map(x=>x.dataset.b21dAlrdoc),r:(document.querySelector('[data-b21d-rien]')||{dataset:{}}).dataset.b21dRien,t:document.querySelector('[data-b21d-acv]').innerText,p:!!document.querySelector('[data-b21d-acv] [data-b21d-prepgo]')})")
     ev("()=>{delete S.ao['fx-dec'].noteMoyens;const r=JSON.parse(window.__refs);if(r)D0('sakdat').references=r;else delete D0('sakdat').references;render();}")
-    chk(M1["k"]=="redac" and "1 référence saisie au coffre ✓" in M1["t"] and M1["a"]==0 and "Rédaction en préparation" in M1["t"] and "Rédigée par la Préparation" in M2 and len(W())==w10,"note des moyens : avec les données de la société présentes, une ligne neutre « Rédaction en préparation » (puis « Rédigée par la Préparation ») ; rien à rédiger dans la décision (état simulé en mémoire)")
-    sel("alwaad-ataib");OUV();M3=ev("()=>{const d=document.querySelector('[data-b21d-panel] [data-b21d-doc=\"moyens\"]');return{k:d.dataset.b21dDk,r:[...d.querySelectorAll('[data-b21d-renseigner]')].map(b=>b.dataset.b21dRenseigner)}}")
-    chk(M3["k"]=="miss" and M3["r"]==["Attestations de bonne exécution"],"note des moyens sans référence saisie : manque société sous la pièce avec « Renseigner dans le coffre » (références de la société)")
-    pg.click('[data-b21d-panel] [data-b21d-doc="moyens"] [data-b21d-renseigner]');pg.wait_for_timeout(500)
-    chk(ev("()=>[S.dept,SOC[S.cur]&&SOC[S.cur].sid,(document.querySelector('.piece.b21d-cible .nm')||{}).textContent]")==["coffre","alwaad-ataib","Attestations de bonne exécution"],"« Renseigner dans le coffre » : coffre d'ALWAAD, pièce références mise en vue")
+    chk(not A1["m"] and "moyens" in A1["a"] and "moyens" not in A2["a"] and A2["r"]=="1" and "Rien à compléter ici" in A2["t"] and "ne signifie ni offre prête au dépôt" in A2["t"] and A2["p"] and len(W())==w10,"note des moyens avec les données société présentes : pas de carte ; besoins CPS non établis → alerte ; note rédigée par la Préparation et rien d'autre → « Rien à compléter ici » + « Ouvrir Préparation » (sans prétendre prêt au dépôt) (état simulé en mémoire)")
+    sel("alwaad-ataib");OUV();M3=ev("()=>{const d=document.querySelector('[data-b21d-panel] [data-b21d-doc=\"moyens\"]'),q=document.querySelector('[data-b21d-panel] [data-b21d-dk=\"proof\"][data-b21d-doc=\"refs\"]');return{k:d.dataset.b21dDk,ref:(d.querySelector('[data-b21d-aref]')||{dataset:{}}).dataset.b21dAref,r:q?q.querySelector('[data-b21d-renseigner]').dataset.b21dRenseigner:null,src:q?!!q.querySelector('details.b21d-rcs'):false,cor:q?q.innerText.includes('À corriger dans : coffre de ALWAAD ATAIB'):false}}")
+    chk(M3=={"k":"miss","ref":"refs","r":"Attestations de bonne exécution","src":True,"cor":True},f"références manquantes : une seule carte preuve (Env. 1 technique, source RC repliable, correction au coffre d'ALWAAD) ; la note des moyens y renvoie (pas de doublon) {M3}")
+    pg.click('[data-b21d-panel] [data-b21d-dk="proof"][data-b21d-doc="refs"] [data-b21d-renseigner]');pg.wait_for_timeout(500)
+    chk(ev("()=>[S.dept,SOC[S.cur]&&SOC[S.cur].sid,(document.querySelector('.piece.b21d-cible .nm')||{}).textContent]")==["coffre","alwaad-ataib","Attestations de bonne exécution"],"« Vérifier au coffre » (carte preuve) : coffre d'ALWAAD, pièce références mise en vue")
     # accordéon : replier enregistre d'abord, aucune perte ; « Aller au champ »
     dec(pg,"fx-dec");sel("build-chantier");pg.click('[data-b21d-dtog="dsh"]');pg.wait_for_timeout(250);w11=len(W())
     pg.click('[data-b21d-doc="dsh"] [data-b21d-pf="build-chantier|tel"]');pg.keyboard.type("0612121212",delay=30);cc=ev("()=>[document.activeElement.value,document.activeElement.selectionStart]")
@@ -227,6 +233,49 @@ with sync_playwright() as p:
     reel1=ev("ids=>JSON.stringify(ids.map(i=>[S.ao[i].decision||null,S.ao[i].statut,S.ao[i].soc,S.ao[i].decisionHist||null]))",REELS)
     chk(nb==9 and reel0==reel1 and not ecr_reel(pg) and not errs,f"dossier réel BG (base simulée) : 9 sociétés en lecture, décisions inchangées, aucune écriture réelle, aucune erreur {errs[:2]}")
     dec(pg,"fx-dec");sel("alwaad-ataib");pg.screenshot(path=f"{OUT}/fx_dec_1440.png",full_page=True);ctx.close()
+    # ===== b21d-11 : emplacement RC honnête, Préparation intacte, dernier manque résolu =====
+    ctx2,pg,errs2=demarrer(b,1440,1000);ev=lambda js,*a:pg.evaluate(js,*a);W=lambda:ev("()=>window.__writes.slice()");dec(pg,"fx-dec");sel("alwaad-ataib")
+    AK=lambda:ev("()=>Object.keys(S.ao).length")
+    ev("()=>{window.__plis=S.rc['fx-dec'].plis;delete S.rc['fx-dec'].plis;render();}")
+    U1=ev("()=>({g:[...document.querySelectorAll('[data-b21d-panel] [data-b21d-loc]')].map(g=>[g.dataset.b21dLoc,g.querySelector('.b21d-gh').innerText]),p:[...document.querySelectorAll('[data-b21d-panel] [data-b21d-path]')].map(x=>x.innerText)})")
+    ev("()=>{S.rc['fx-dec'].plis=window.__plis;render();}")
+    chk(len(U1["g"])==1 and U1["g"][0][0]=="?" and "emplacement dans le pli à confirmer" in U1["g"][0][1].lower() and U1["p"] and all("Enveloppe" not in x and "emplacement dans le pli à confirmer" in x for x in U1["p"]),f"RC sans structure de plis lue : « Emplacement dans le pli à confirmer », aucune enveloppe supposée {U1['g']}")
+    ev("()=>{window.__pc=S.rc['fx-dec'].pieces;S.rc['fx-dec'].pieces=[];render();}")
+    U2=ev("()=>({inc:!!document.querySelector('[data-b21d-rcinc]'),rien:!!document.querySelector('[data-b21d-rien]'),c:document.querySelectorAll('[data-b21d-panel] [data-b21d-dk]').length,t:document.querySelector('[data-b21d-acv]').innerText})")
+    ev("()=>{S.rc['fx-dec'].pieces=window.__pc;render();}")
+    chk(U2["inc"] and not U2["rien"] and U2["c"]==0 and "rien n'est supposé complet" in U2["t"],"exigences du RC inconnues : signalé, ni « Rien à compléter » ni pièce supposée")
+    k0=AK();w0=len(W());sel("build-chantier")
+    NB=ev("()=>({pn:!!document.querySelector('[data-b21d-prepnone]'),pg:!!document.querySelector('[data-b21d-acv] [data-b21d-prepgo]'),ctx:document.querySelector('[data-b21d-acv] > .b21d-src').innerText})")
+    chk(NB["pn"] and not NB["pg"] and "aucun dossier" in NB["ctx"] and AK()==k0 and len(W())==w0,"société sans dossier : pas de lien Préparation (créée seulement à la confirmation), rien n'est créé en consultant")
+    PR=ev("""()=>{const a=S.ao['fx-dec'],X=b21dSibs('fx-dec',a).find(x=>x.sid==='alwaad-ataib'),d=b21dDocs('fx-dec',a,'alwaad-ataib',X);return{std:d.docs.map(z=>z.std),np:S.rc['fx-dec'].pieces.length}}""")
+    ev("()=>b21dAller('fx-dec~siditrav','MP-B3.2','pieces')");pg.wait_for_timeout(700);TP=pg.inner_text("#view")
+    chk(all(x in PR["std"] for x in ("caution","bpu","cpsrc","moyens","dsh","ae")) and PR["np"]==NP and "cautionnement provisoire" in TP and "Bordereau des prix" in TP,f"rien n'est effacé : pièces du RC ({PR['np']}) et documents (caution, BPU, CPS/RC, note des moyens) toujours calculés et affichés dans la Préparation (B3.2)")
+    dec(pg,"fx-dec");SC="structure-chantier";sel(SC)
+    ev("s=>{const g=[{nom:'GÉRANT FICTIF QA',qualite:'Gérant',signe:'unique'}];window.__DB.societes[s]=window.__DB.societes[s]||{};window.__DB.societes[s].profil=Object.assign(window.__DB.societes[s].profil||{},{gerants:g});const d=D0(s);d.profil=Object.assign({},d.profil||{},{gerants:g});try{socApply(s)}catch(e){};render();}",SC)
+    OUV();VAL={"tel":"0612345678","fax":"0522000000","mail":"qa@exemple.ma","rib":"123456789012345678901234","ice":"123456789012345","capital":"100000"}
+    FD=ev("s=>[...document.querySelectorAll('[data-b21d-doc=\"dsh\"] input[data-b21d-pf]')].map(i=>i.dataset.b21dPf.split('|')[1])",SC)
+    FA=ev("s=>[...document.querySelectorAll('[data-b21d-doc=\"ae\"] input[data-b21d-pf]')].map(i=>i.dataset.b21dPf.split('|')[1])",SC)
+    nA=ev("()=>document.querySelectorAll('[data-b21d-doc=\"ae\"] [data-b21d-autre]').length")
+    k1=AK();w1=len(W())
+    for k in FD[:-1]:
+        q=f'[data-b21d-doc="dsh"] [data-b21d-pf="{SC}|{k}"]';pg.click(q);pg.keyboard.type(VAL.get(k,"VALEUR FICTIVE QA"));pg.keyboard.press("Tab");pg.wait_for_timeout(900)
+    kl=FD[-1];pg.click(f'[data-b21d-doc="dsh"] [data-b21d-pf="{SC}|{kl}"]');pg.keyboard.type(VAL.get(kl,"VALEUR FICTIVE QA"))
+    AI=f'[data-b21d-doc="ae"] [data-b21d-pf="{SC}|{FA[0]}"]';pg.click(AI);pg.keyboard.type("BAN",delay=40);pg.wait_for_timeout(1000)
+    Z=ev("i=>({dh:!!document.querySelector('[data-b21d-panel] [data-b21d-doc=\"dsh\"]'),f:document.activeElement===document.querySelector(i),v:document.activeElement.value,c:document.activeElement.selectionStart,sum:(document.querySelector('[data-b21d-sum]')||{dataset:{}}).dataset.b21dSum})",AI)
+    pg.keyboard.type("QUE QA",delay=30);Z2=ev("i=>[document.activeElement===document.querySelector(i),document.activeElement.value]",AI)
+    pr=ev("s=>window.__DB.societes[s].profil",SC)
+    chk(FD and all(pr.get(k)==VAL.get(k,"VALEUR FICTIVE QA") for k in FD) and not Z["dh"] and Z["f"] and Z["v"]=="BAN" and Z["c"]==3 and Z2==[True,"BANQUE QA"] and AK()==k1 and not [w for w in W()[w1:] if w[1].startswith("ao/")],f"dernier manque de la DH confirmé par la base : la carte disparaît ; la saisie en cours dans l'AE garde focus, valeur et curseur ; aucune décision ni dossier créé (DH {FD}, AE {FA}, {Z})")
+    if nA==0:
+        for k in FA[:-1]:
+            q=f'[data-b21d-doc="ae"] [data-b21d-pf="{SC}|{k}"]'
+            if not ev("q=>!!document.querySelector(q)",q):continue
+            pg.click(q);pg.keyboard.press("Control+A");pg.keyboard.type(VAL.get(k,"BANQUE QA") if k!=FA[0] else "BANQUE QA");pg.keyboard.press("Tab");pg.wait_for_timeout(900)
+        ql=f'[data-b21d-doc="ae"] [data-b21d-pf="{SC}|{FA[-1]}"]'
+        if ev("q=>!!document.querySelector(q)",ql):pg.click(ql);pg.keyboard.press("Control+A");pg.keyboard.type(VAL.get(FA[-1],"BANQUE QA"))
+        pg.keyboard.press("Tab");pg.wait_for_timeout(1200)
+        Z3=ev("()=>({ae:!!document.querySelector('[data-b21d-panel] [data-b21d-doc=\"ae\"]'),body:document.activeElement===document.body,id:document.activeElement&&document.activeElement.id})")
+        chk(not Z3["ae"] and not Z3["body"],f"dernière information de l'AE (Tab) : la carte disparaît, le focus n'est pas perdu ({Z3})")
+    ctx2.close()
     # ===== G. mobile / sombre =====
     for (w,h,sch,tag) in ((390,844,"light","390"),(390,844,"dark","390_sombre"),(1440,900,"dark","1440_sombre")):
         c=b.new_context(viewport={"width":w,"height":h},color_scheme=sch);c.add_init_script(INIT);q=c.new_page();e=[];q.on("pageerror",lambda x:e.append(str(x)))

diff --git a/preuves_b31/qa_b21d10_layout.py b/preuves_b31/qa_b21d10_layout.py
@@ -22,6 +22,9 @@ with sync_playwright() as p:
         q.evaluate("()=>{const s='alwaad-ataib',v='123456789012345678901234';const d=D0(s);d.profil={...(d.profil||{}),rib:v};B21D.pf[s+'|rib']={v,saved:v,base:v,st:'ok',dirty:false};B21D.docF[s+'|dsh']=[...new Set([...(B21D.docF[s+'|dsh']||[]),'rib'])];if(document.activeElement)document.activeElement.blur();render();}")
         q.wait_for_timeout(300);B=q.evaluate(MES)
         ov=q.evaluate("()=>document.documentElement.scrollWidth-document.documentElement.clientWidth")
+        PCm=q.evaluate("()=>[...document.querySelectorAll('[data-b21d-panel] [data-b21d-dk=\"proof\"],[data-b21d-panel] [data-b21d-dk=\"miss\"]')].map(c=>{const C=c.getBoundingClientRect(),b=c.querySelector('.b21d-dch>.b21d-sb'),t=c.querySelector('[data-b21d-path]'),B=b.getBoundingClientRect(),T=t.getBoundingClientRect();return[c.dataset.b21dDoc,Math.round(B.right-C.right),Math.round(T.width),Math.round(C.height)]})")
+        q.locator('[data-b21d-acv]').screenshot(path=f"{OUT}/acv_{tag}.png")
+        chk(PCm and all(x[1]<=1 and x[2]>=150 for x in PCm),f"{tag} : cartes « À compléter / vérifier » (preuve et pièces) : bouton dans la carte, chemin Destination lisible {PCm}")
         q.locator('[data-b21d-doc="moyens"]').screenshot(path=f"{OUT}/moyens_{tag}.png");q.locator('[data-b21d-doc="dsh"]').screenshot(path=f"{OUT}/dh_rib_{tag}.png")
         kinds={x["kind"] for x in A+B}
         def bad(x):
